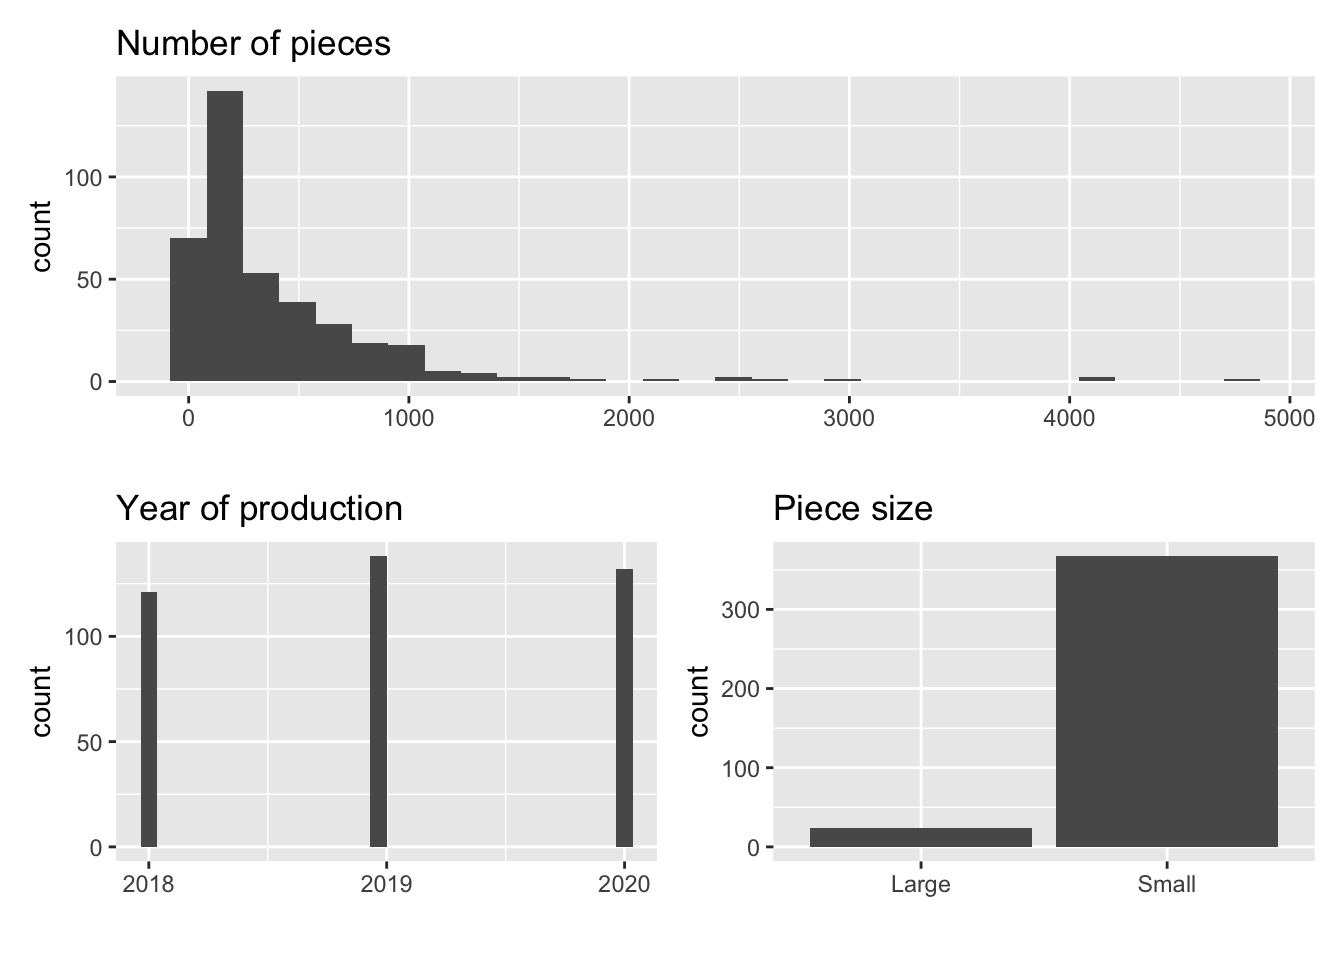
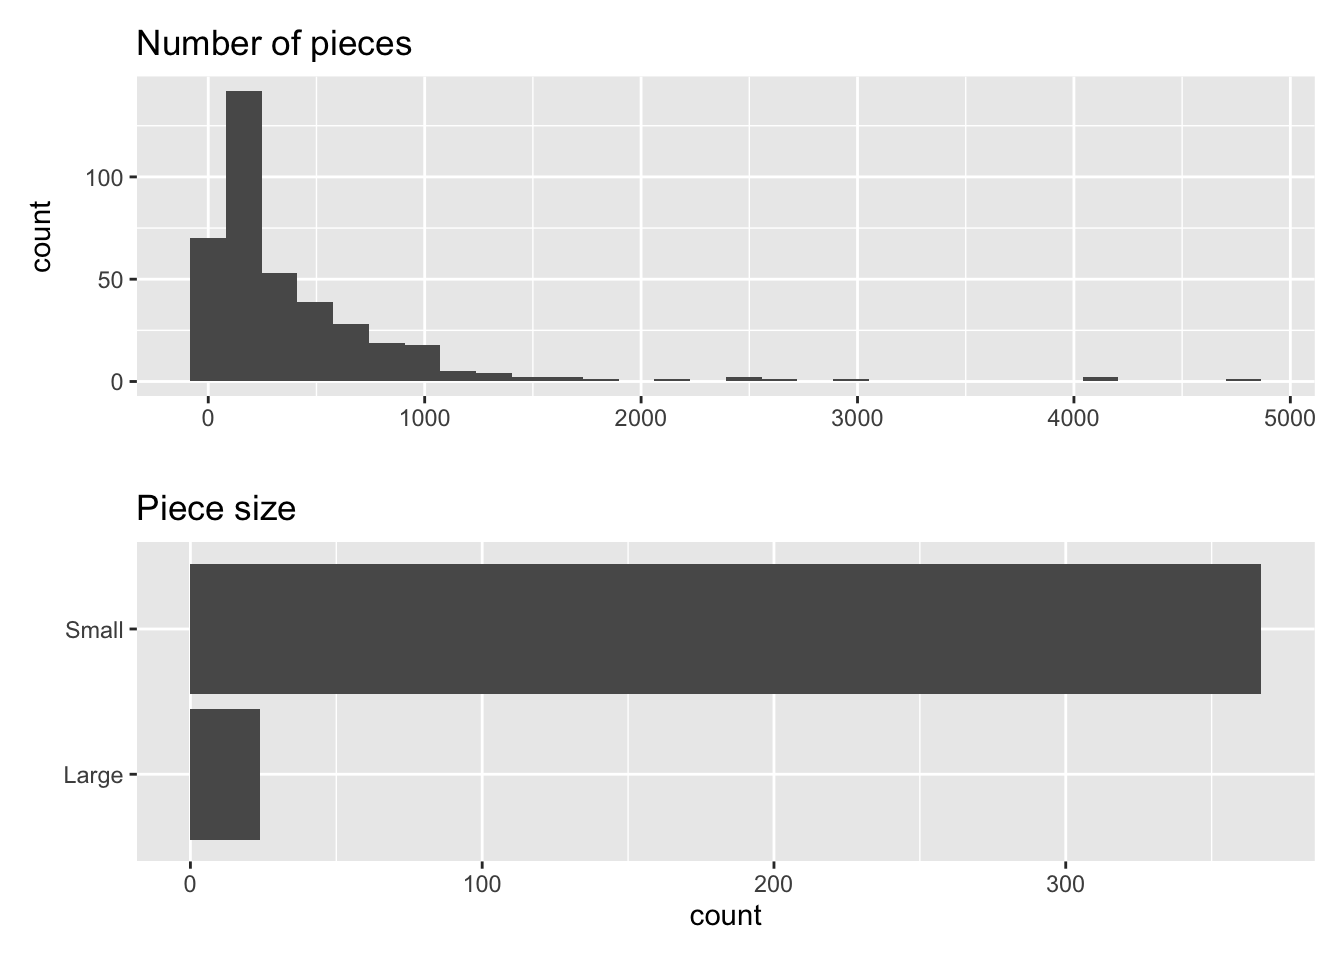
finalize ae 12

diff --git a/_site/ae/ae-12-mlr-review.html b/_site/ae/ae-12-mlr-review.html
@@ -400,8 +400,7 @@ Important
 <div class="sourceCode cell-code" id="cb1"><pre class="sourceCode r code-with-copy"><code class="sourceCode r"><span id="cb1-1"><a href="#cb1-1" aria-hidden="true" tabindex="-1"></a><span class="fu">library</span>(tidyverse)</span>
 <span id="cb1-2"><a href="#cb1-2" aria-hidden="true" tabindex="-1"></a><span class="fu">library</span>(tidymodels)</span>
 <span id="cb1-3"><a href="#cb1-3" aria-hidden="true" tabindex="-1"></a><span class="fu">library</span>(patchwork)</span>
-<span id="cb1-4"><a href="#cb1-4" aria-hidden="true" tabindex="-1"></a><span class="fu">library</span>(GGally)</span>
-<span id="cb1-5"><a href="#cb1-5" aria-hidden="true" tabindex="-1"></a><span class="fu">library</span>(rms)</span></code><button title="Copy to Clipboard" class="code-copy-button"><i class="bi"></i></button></pre></div>
+<span id="cb1-4"><a href="#cb1-4" aria-hidden="true" tabindex="-1"></a><span class="fu">library</span>(rms)</span></code><button title="Copy to Clipboard" class="code-copy-button"><i class="bi"></i></button></pre></div>
 </div>
 <p>The data for this analysis includes information about LEGO sets from themes produced January 1, 2018 and September 11, 2020. The data were originally scraped from Brickset.com, an online LEGO set guide.</p>
 <p>You will work with data on about 400 randomly selected LEGO sets produced during this time period. The primary variables are interest in this analysis are</p>
@@ -410,16 +409,15 @@ Important
 <li><code>Amazon_Price</code>: Amazon price of the set scraped from brickset.com (in U.S. dollars)</li>
 <li><code>Size</code>: General size of the interlocking bricks (Large = LEGO Duplo sets - which include large brick pieces safe for children ages 1 to 5, Small = LEGO sets which- include the traditional smaller brick pieces created for age groups 5 and - older, e.g., City, Friends)</li>
 <li><code>Theme</code>: Theme of the LEGO set</li>
-<li><code>Year</code>: Year the set was produced</li>
 </ul>
-<p>The goal of this analysis is to predict the Amazon price based on the year, number of pieces, theme, and size of pieces. We will only include observations that have recorded values for all relevant variables.</p>
+<p>The goal of this analysis is to predict the Amazon price based on the number of pieces, theme, and size of pieces. We will only include observations that have recorded values for all relevant variables.</p>
 <div class="cell">
 <div class="sourceCode cell-code" id="cb2"><pre class="sourceCode r code-with-copy"><code class="sourceCode r"><span id="cb2-1"><a href="#cb2-1" aria-hidden="true" tabindex="-1"></a>legos <span class="ot">&lt;-</span> <span class="fu">read_csv</span>(<span class="st">"data/lego-sample.csv"</span>) <span class="sc">|&gt;</span></span>
-<span id="cb2-2"><a href="#cb2-2" aria-hidden="true" tabindex="-1"></a>  <span class="fu">select</span>(Year, Size, Pieces, Theme, Amazon_Price) <span class="sc">|&gt;</span></span>
+<span id="cb2-2"><a href="#cb2-2" aria-hidden="true" tabindex="-1"></a>  <span class="fu">select</span>(Size, Pieces, Theme, Amazon_Price) <span class="sc">|&gt;</span></span>
 <span id="cb2-3"><a href="#cb2-3" aria-hidden="true" tabindex="-1"></a>  <span class="fu">drop_na</span>()</span></code><button title="Copy to Clipboard" class="code-copy-button"><i class="bi"></i></button></pre></div>
 </div>
 <ul>
-<li>What is a disadvantage of dropping observations that have missing values? How might it impact the generalizability of conclusions?</li>
+<li>What is a disadvantage of dropping observations that have missing values, instead of using a method to impute, i.e., fill in, the missing data? How might dropping these observations impact the generalizability of conclusions?</li>
 </ul>
 <section id="exploratory-data-analysis" class="level2">
 <h2 class="anchored" data-anchor-id="exploratory-data-analysis">Exploratory data analysis</h2>
@@ -452,15 +450,16 @@ Important
 <span id="cb4-12"><a href="#cb4-12" aria-hidden="true" tabindex="-1"></a>p_size <span class="ot">&lt;-</span> <span class="fu">ggplot</span>(<span class="at">data =</span> legos, <span class="fu">aes</span>(<span class="at">x =</span> Size)) <span class="sc">+</span></span>
 <span id="cb4-13"><a href="#cb4-13" aria-hidden="true" tabindex="-1"></a>  <span class="fu">geom_bar</span>() <span class="sc">+</span> </span>
 <span id="cb4-14"><a href="#cb4-14" aria-hidden="true" tabindex="-1"></a>    <span class="fu">labs</span>(<span class="at">title =</span> <span class="st">"Piece size"</span>,</span>
-<span id="cb4-15"><a href="#cb4-15" aria-hidden="true" tabindex="-1"></a>         <span class="at">x =</span> <span class="st">""</span>)</span>
-<span id="cb4-16"><a href="#cb4-16" aria-hidden="true" tabindex="-1"></a></span>
-<span id="cb4-17"><a href="#cb4-17" aria-hidden="true" tabindex="-1"></a>p_pieces <span class="sc">/</span> (p_year <span class="sc">+</span> p_size)</span></code><button title="Copy to Clipboard" class="code-copy-button"><i class="bi"></i></button></pre></div>
+<span id="cb4-15"><a href="#cb4-15" aria-hidden="true" tabindex="-1"></a>         <span class="at">x =</span> <span class="st">""</span>) <span class="sc">+</span> </span>
+<span id="cb4-16"><a href="#cb4-16" aria-hidden="true" tabindex="-1"></a>  <span class="fu">coord_flip</span>()</span>
+<span id="cb4-17"><a href="#cb4-17" aria-hidden="true" tabindex="-1"></a></span>
+<span id="cb4-18"><a href="#cb4-18" aria-hidden="true" tabindex="-1"></a>p_pieces <span class="sc">/</span>  p_size</span></code><button title="Copy to Clipboard" class="code-copy-button"><i class="bi"></i></button></pre></div>
 <div class="cell-output-display">
 <p><img src="ae-12-mlr-review_files/figure-html/eda-predictors-1.png" class="img-fluid" width="672"></p>
 </div>
 </div>
 <ul>
-<li>What (if any) feature engineering might we want to include in a recipe for a model for <code>Year</code>, <code>Pieces</code>, and <code>Size</code>?</li>
+<li>What (if any) feature engineering might we want to include in a recipe for a model for <code>Pieces</code> and <code>Size</code>?</li>
 </ul>
 <div class="cell">
 <div class="sourceCode cell-code" id="cb5"><pre class="sourceCode r code-with-copy"><code class="sourceCode r"><span id="cb5-1"><a href="#cb5-1" aria-hidden="true" tabindex="-1"></a>legos <span class="sc">|&gt;</span></span>
@@ -494,7 +493,7 @@ Important
 </section>
 <section id="model-workflow" class="level3">
 <h3 class="anchored" data-anchor-id="model-workflow">Model workflow</h3>
-<p>Fit the model using <code>Pieces</code>, <code>Size</code>, <code>Year</code>, and <code>Theme</code> to understand variability in <code>Amazon_Price</code>. To do so, specify the model and use training data to create a recipe applying the feature engineering steps mentioned above. Then, build the model workflow and fit the model.</p>
+<p>Fit the model using <code>Pieces</code>, <code>Size</code>, and <code>Theme</code> to understand variability in <code>Amazon_Price</code>. To do so, specify the model and use training data to create a recipe applying the feature engineering steps mentioned above. Then, build the model workflow and fit the model.</p>
 <div class="cell">
 <div class="sourceCode cell-code" id="cb7"><pre class="sourceCode r code-with-copy"><code class="sourceCode r"><span id="cb7-1"><a href="#cb7-1" aria-hidden="true" tabindex="-1"></a><span class="co"># add code to specify model </span></span></code><button title="Copy to Clipboard" class="code-copy-button"><i class="bi"></i></button></pre></div>
 </div>
@@ -502,10 +501,15 @@ Important
 <div class="sourceCode cell-code" id="cb8"><pre class="sourceCode r code-with-copy"><code class="sourceCode r"><span id="cb8-1"><a href="#cb8-1" aria-hidden="true" tabindex="-1"></a><span class="co"># add code to create recipe</span></span></code><button title="Copy to Clipboard" class="code-copy-button"><i class="bi"></i></button></pre></div>
 </div>
 <div class="cell">
-<div class="sourceCode cell-code" id="cb9"><pre class="sourceCode r code-with-copy"><code class="sourceCode r"><span id="cb9-1"><a href="#cb9-1" aria-hidden="true" tabindex="-1"></a><span class="co"># add code to build workflow</span></span></code><button title="Copy to Clipboard" class="code-copy-button"><i class="bi"></i></button></pre></div>
+<div class="sourceCode cell-code" id="cb9"><pre class="sourceCode r code-with-copy"><code class="sourceCode r"><span id="cb9-1"><a href="#cb9-1" aria-hidden="true" tabindex="-1"></a><span class="co"># This is an optional step to see the outcome of the recipe</span></span>
+<span id="cb9-2"><a href="#cb9-2" aria-hidden="true" tabindex="-1"></a></span>
+<span id="cb9-3"><a href="#cb9-3" aria-hidden="true" tabindex="-1"></a><span class="co"># add code to prep and bake </span></span></code><button title="Copy to Clipboard" class="code-copy-button"><i class="bi"></i></button></pre></div>
 </div>
 <div class="cell">
-<div class="sourceCode cell-code" id="cb10"><pre class="sourceCode r code-with-copy"><code class="sourceCode r"><span id="cb10-1"><a href="#cb10-1" aria-hidden="true" tabindex="-1"></a><span class="co"># add code to fit model</span></span></code><button title="Copy to Clipboard" class="code-copy-button"><i class="bi"></i></button></pre></div>
+<div class="sourceCode cell-code" id="cb10"><pre class="sourceCode r code-with-copy"><code class="sourceCode r"><span id="cb10-1"><a href="#cb10-1" aria-hidden="true" tabindex="-1"></a><span class="co"># add code to build workflow</span></span></code><button title="Copy to Clipboard" class="code-copy-button"><i class="bi"></i></button></pre></div>
+</div>
+<div class="cell">
+<div class="sourceCode cell-code" id="cb11"><pre class="sourceCode r code-with-copy"><code class="sourceCode r"><span id="cb11-1"><a href="#cb11-1" aria-hidden="true" tabindex="-1"></a><span class="co"># add code to fit model</span></span></code><button title="Copy to Clipboard" class="code-copy-button"><i class="bi"></i></button></pre></div>
 </div>
 </section>
 </section>
@@ -523,8 +527,8 @@ Important
 </div>
 </div>
 <div class="cell">
-<div class="sourceCode cell-code" id="cb11"><pre class="sourceCode r code-with-copy"><code class="sourceCode r"><span id="cb11-1"><a href="#cb11-1" aria-hidden="true" tabindex="-1"></a>lego_fit_model <span class="ot">&lt;-</span> <span class="fu">extract_fit_parsnip</span>(______)</span>
-<span id="cb11-2"><a href="#cb11-2" aria-hidden="true" tabindex="-1"></a>lego_aug <span class="ot">&lt;-</span> <span class="fu">augment</span>(lego_fit_model)</span></code><button title="Copy to Clipboard" class="code-copy-button"><i class="bi"></i></button></pre></div>
+<div class="sourceCode cell-code" id="cb12"><pre class="sourceCode r code-with-copy"><code class="sourceCode r"><span id="cb12-1"><a href="#cb12-1" aria-hidden="true" tabindex="-1"></a>lego_fit_model <span class="ot">&lt;-</span> <span class="fu">extract_fit_parsnip</span>(______)</span>
+<span id="cb12-2"><a href="#cb12-2" aria-hidden="true" tabindex="-1"></a>lego_aug <span class="ot">&lt;-</span> <span class="fu">augment</span>(lego_fit_model)</span></code><button title="Copy to Clipboard" class="code-copy-button"><i class="bi"></i></button></pre></div>
 </div>
 <section id="residuals-vs-predicted-values" class="level3">
 <h3 class="anchored" data-anchor-id="residuals-vs-predicted-values">Residuals vs predicted values</h3>
@@ -540,12 +544,12 @@ Important
 </div>
 </div>
 <div class="cell">
-<div class="sourceCode cell-code" id="cb12"><pre class="sourceCode r code-with-copy"><code class="sourceCode r"><span id="cb12-1"><a href="#cb12-1" aria-hidden="true" tabindex="-1"></a><span class="fu">ggplot</span>(<span class="at">data =</span> lego_aug, <span class="fu">aes</span>(<span class="at">x =</span> .fitted, <span class="at">y=</span> .resid)) <span class="sc">+</span></span>
-<span id="cb12-2"><a href="#cb12-2" aria-hidden="true" tabindex="-1"></a>  <span class="fu">geom_point</span>() <span class="sc">+</span> </span>
-<span id="cb12-3"><a href="#cb12-3" aria-hidden="true" tabindex="-1"></a>  <span class="fu">geom_hline</span>(<span class="at">yintercept =</span> <span class="dv">0</span>, <span class="at">color =</span> <span class="st">"red"</span>, <span class="at">linetype =</span> <span class="st">"dashed"</span>) <span class="sc">+</span> </span>
-<span id="cb12-4"><a href="#cb12-4" aria-hidden="true" tabindex="-1"></a>  <span class="fu">labs</span>(<span class="at">x =</span> <span class="st">"Predicted"</span>, </span>
-<span id="cb12-5"><a href="#cb12-5" aria-hidden="true" tabindex="-1"></a>       <span class="at">y =</span> <span class="st">"Residuals"</span>, </span>
-<span id="cb12-6"><a href="#cb12-6" aria-hidden="true" tabindex="-1"></a>       <span class="at">title =</span> <span class="st">"Residuals vs. Predicted"</span>)</span></code><button title="Copy to Clipboard" class="code-copy-button"><i class="bi"></i></button></pre></div>
+<div class="sourceCode cell-code" id="cb13"><pre class="sourceCode r code-with-copy"><code class="sourceCode r"><span id="cb13-1"><a href="#cb13-1" aria-hidden="true" tabindex="-1"></a><span class="fu">ggplot</span>(<span class="at">data =</span> lego_aug, <span class="fu">aes</span>(<span class="at">x =</span> .fitted, <span class="at">y=</span> .resid)) <span class="sc">+</span></span>
+<span id="cb13-2"><a href="#cb13-2" aria-hidden="true" tabindex="-1"></a>  <span class="fu">geom_point</span>() <span class="sc">+</span> </span>
+<span id="cb13-3"><a href="#cb13-3" aria-hidden="true" tabindex="-1"></a>  <span class="fu">geom_hline</span>(<span class="at">yintercept =</span> <span class="dv">0</span>, <span class="at">color =</span> <span class="st">"red"</span>, <span class="at">linetype =</span> <span class="st">"dashed"</span>) <span class="sc">+</span> </span>
+<span id="cb13-4"><a href="#cb13-4" aria-hidden="true" tabindex="-1"></a>  <span class="fu">labs</span>(<span class="at">x =</span> <span class="st">"Predicted"</span>, </span>
+<span id="cb13-5"><a href="#cb13-5" aria-hidden="true" tabindex="-1"></a>       <span class="at">y =</span> <span class="st">"Residuals"</span>, </span>
+<span id="cb13-6"><a href="#cb13-6" aria-hidden="true" tabindex="-1"></a>       <span class="at">title =</span> <span class="st">"Residuals vs. Predicted"</span>)</span></code><button title="Copy to Clipboard" class="code-copy-button"><i class="bi"></i></button></pre></div>
 </div>
 </section>
 <section id="distribution-of-residuals" class="level3">
@@ -562,13 +566,13 @@ Important
 </div>
 </div>
 <div class="cell">
-<div class="sourceCode cell-code" id="cb13"><pre class="sourceCode r code-with-copy"><code class="sourceCode r"><span id="cb13-1"><a href="#cb13-1" aria-hidden="true" tabindex="-1"></a><span class="fu">ggplot</span>(lego_aug, <span class="fu">aes</span>(.resid)) <span class="sc">+</span></span>
-<span id="cb13-2"><a href="#cb13-2" aria-hidden="true" tabindex="-1"></a>  <span class="fu">geom_histogram</span>(<span class="fu">aes</span>(<span class="at">y =</span> <span class="fu">after_stat</span>(density))) <span class="sc">+</span></span>
-<span id="cb13-3"><a href="#cb13-3" aria-hidden="true" tabindex="-1"></a>  <span class="fu">stat_function</span>(</span>
-<span id="cb13-4"><a href="#cb13-4" aria-hidden="true" tabindex="-1"></a>    <span class="at">fun =</span> dnorm, </span>
-<span id="cb13-5"><a href="#cb13-5" aria-hidden="true" tabindex="-1"></a>    <span class="at">args =</span> <span class="fu">list</span>(<span class="at">mean =</span> <span class="fu">mean</span>(lego_aug<span class="sc">$</span>_____), <span class="at">sd =</span> <span class="fu">sd</span>(_____)), </span>
-<span id="cb13-6"><a href="#cb13-6" aria-hidden="true" tabindex="-1"></a>    <span class="at">color =</span> <span class="st">"red"</span></span>
-<span id="cb13-7"><a href="#cb13-7" aria-hidden="true" tabindex="-1"></a>  )</span></code><button title="Copy to Clipboard" class="code-copy-button"><i class="bi"></i></button></pre></div>
+<div class="sourceCode cell-code" id="cb14"><pre class="sourceCode r code-with-copy"><code class="sourceCode r"><span id="cb14-1"><a href="#cb14-1" aria-hidden="true" tabindex="-1"></a><span class="fu">ggplot</span>(lego_aug, <span class="fu">aes</span>(.resid)) <span class="sc">+</span></span>
+<span id="cb14-2"><a href="#cb14-2" aria-hidden="true" tabindex="-1"></a>  <span class="fu">geom_histogram</span>(<span class="fu">aes</span>(<span class="at">y =</span> <span class="fu">after_stat</span>(density))) <span class="sc">+</span></span>
+<span id="cb14-3"><a href="#cb14-3" aria-hidden="true" tabindex="-1"></a>  <span class="fu">stat_function</span>(</span>
+<span id="cb14-4"><a href="#cb14-4" aria-hidden="true" tabindex="-1"></a>    <span class="at">fun =</span> dnorm, </span>
+<span id="cb14-5"><a href="#cb14-5" aria-hidden="true" tabindex="-1"></a>    <span class="at">args =</span> <span class="fu">list</span>(<span class="at">mean =</span> <span class="fu">mean</span>(lego_aug<span class="sc">$</span>_____), <span class="at">sd =</span> <span class="fu">sd</span>(_____)), </span>
+<span id="cb14-6"><a href="#cb14-6" aria-hidden="true" tabindex="-1"></a>    <span class="at">color =</span> <span class="st">"red"</span></span>
+<span id="cb14-7"><a href="#cb14-7" aria-hidden="true" tabindex="-1"></a>  )</span></code><button title="Copy to Clipboard" class="code-copy-button"><i class="bi"></i></button></pre></div>
 </div>
 <p>Use the plots and information about the data to comment on whether each condition is satisfied.</p>
 <ul>
@@ -592,7 +596,7 @@ Important
 </div>
 </div>
 <div class="cell">
-<div class="sourceCode cell-code" id="cb14"><pre class="sourceCode r code-with-copy"><code class="sourceCode r"><span id="cb14-1"><a href="#cb14-1" aria-hidden="true" tabindex="-1"></a><span class="fu">vif</span>(lego_fit_model<span class="sc">$</span>fit)</span></code><button title="Copy to Clipboard" class="code-copy-button"><i class="bi"></i></button></pre></div>
+<div class="sourceCode cell-code" id="cb15"><pre class="sourceCode r code-with-copy"><code class="sourceCode r"><span id="cb15-1"><a href="#cb15-1" aria-hidden="true" tabindex="-1"></a><span class="fu">vif</span>(lego_fit_model<span class="sc">$</span>fit)</span></code><button title="Copy to Clipboard" class="code-copy-button"><i class="bi"></i></button></pre></div>
 </div>
 <ul>
 <li>Are there issues with multicollinearity in the model?</li>
